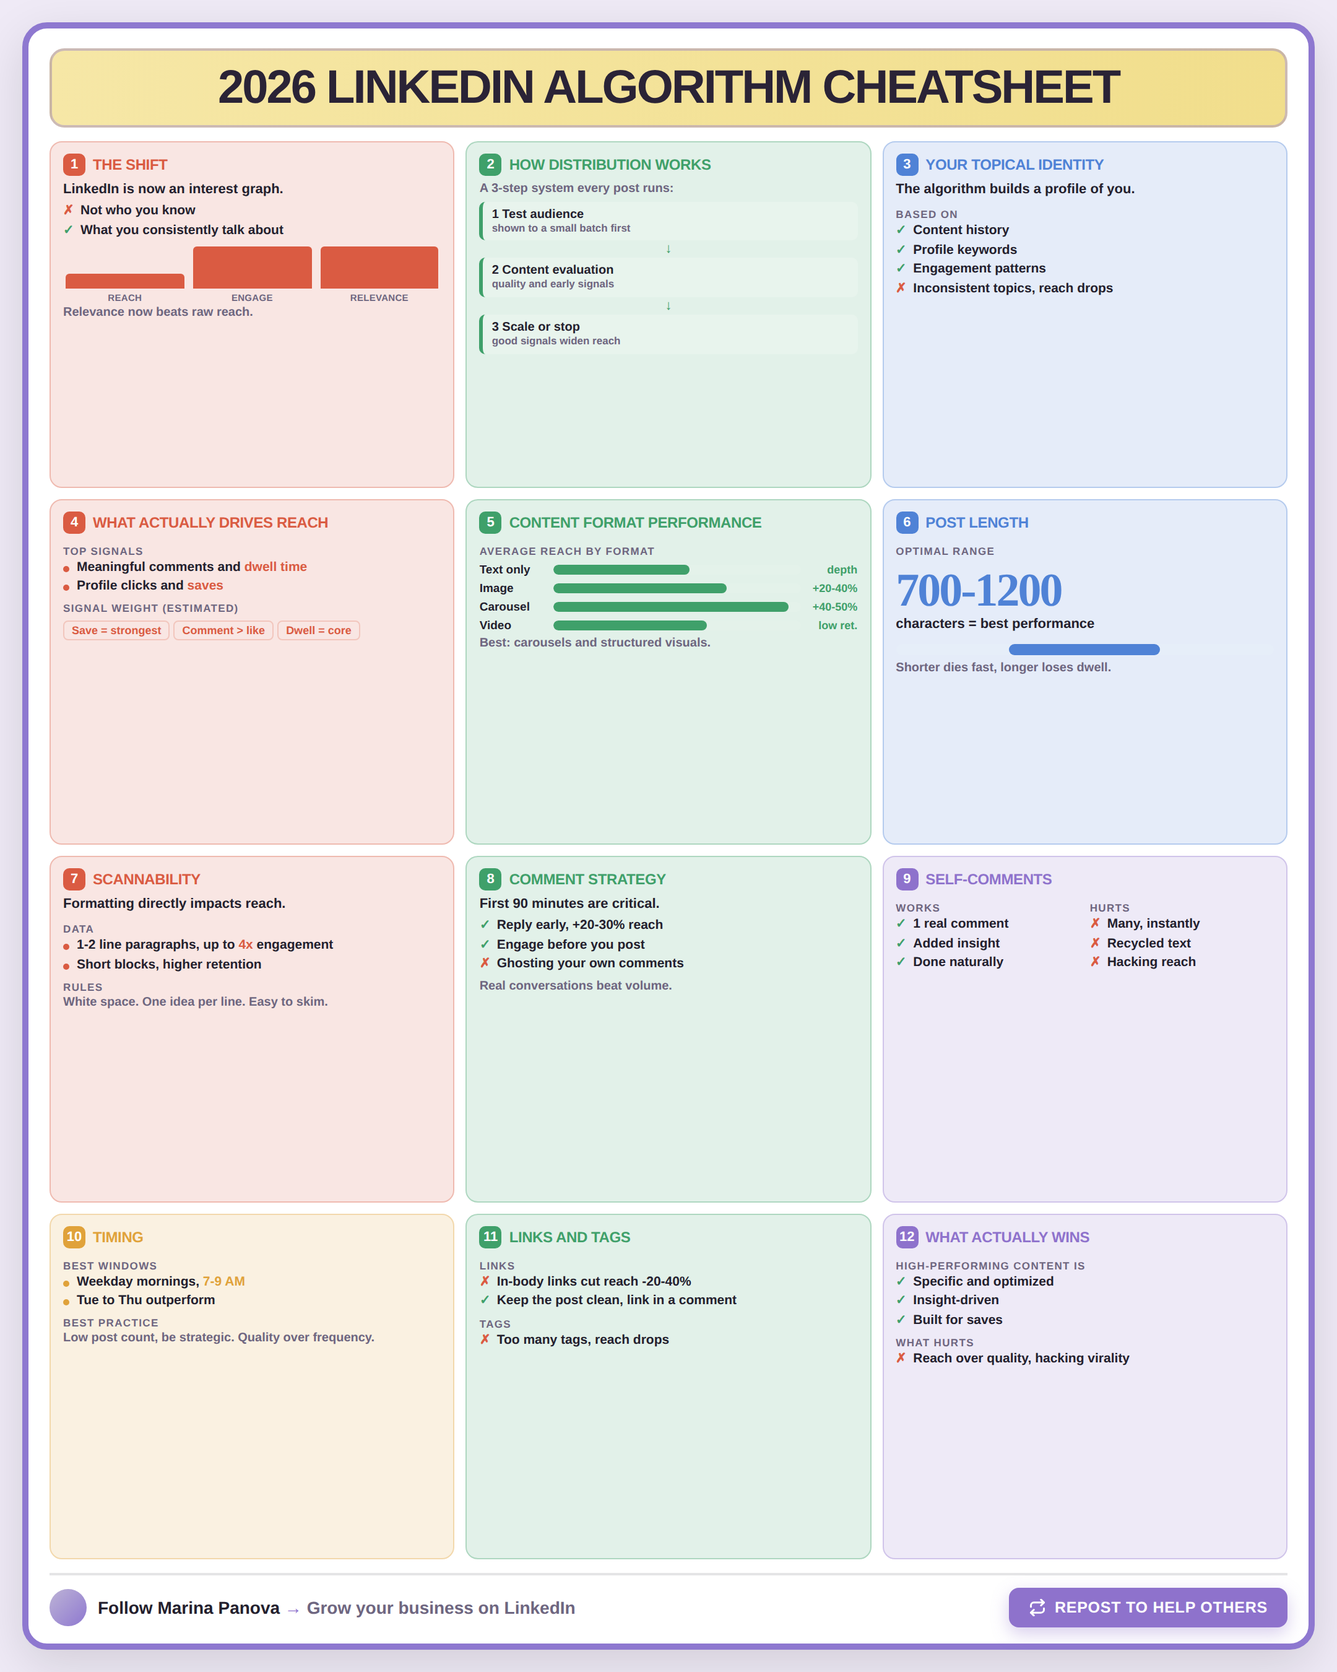
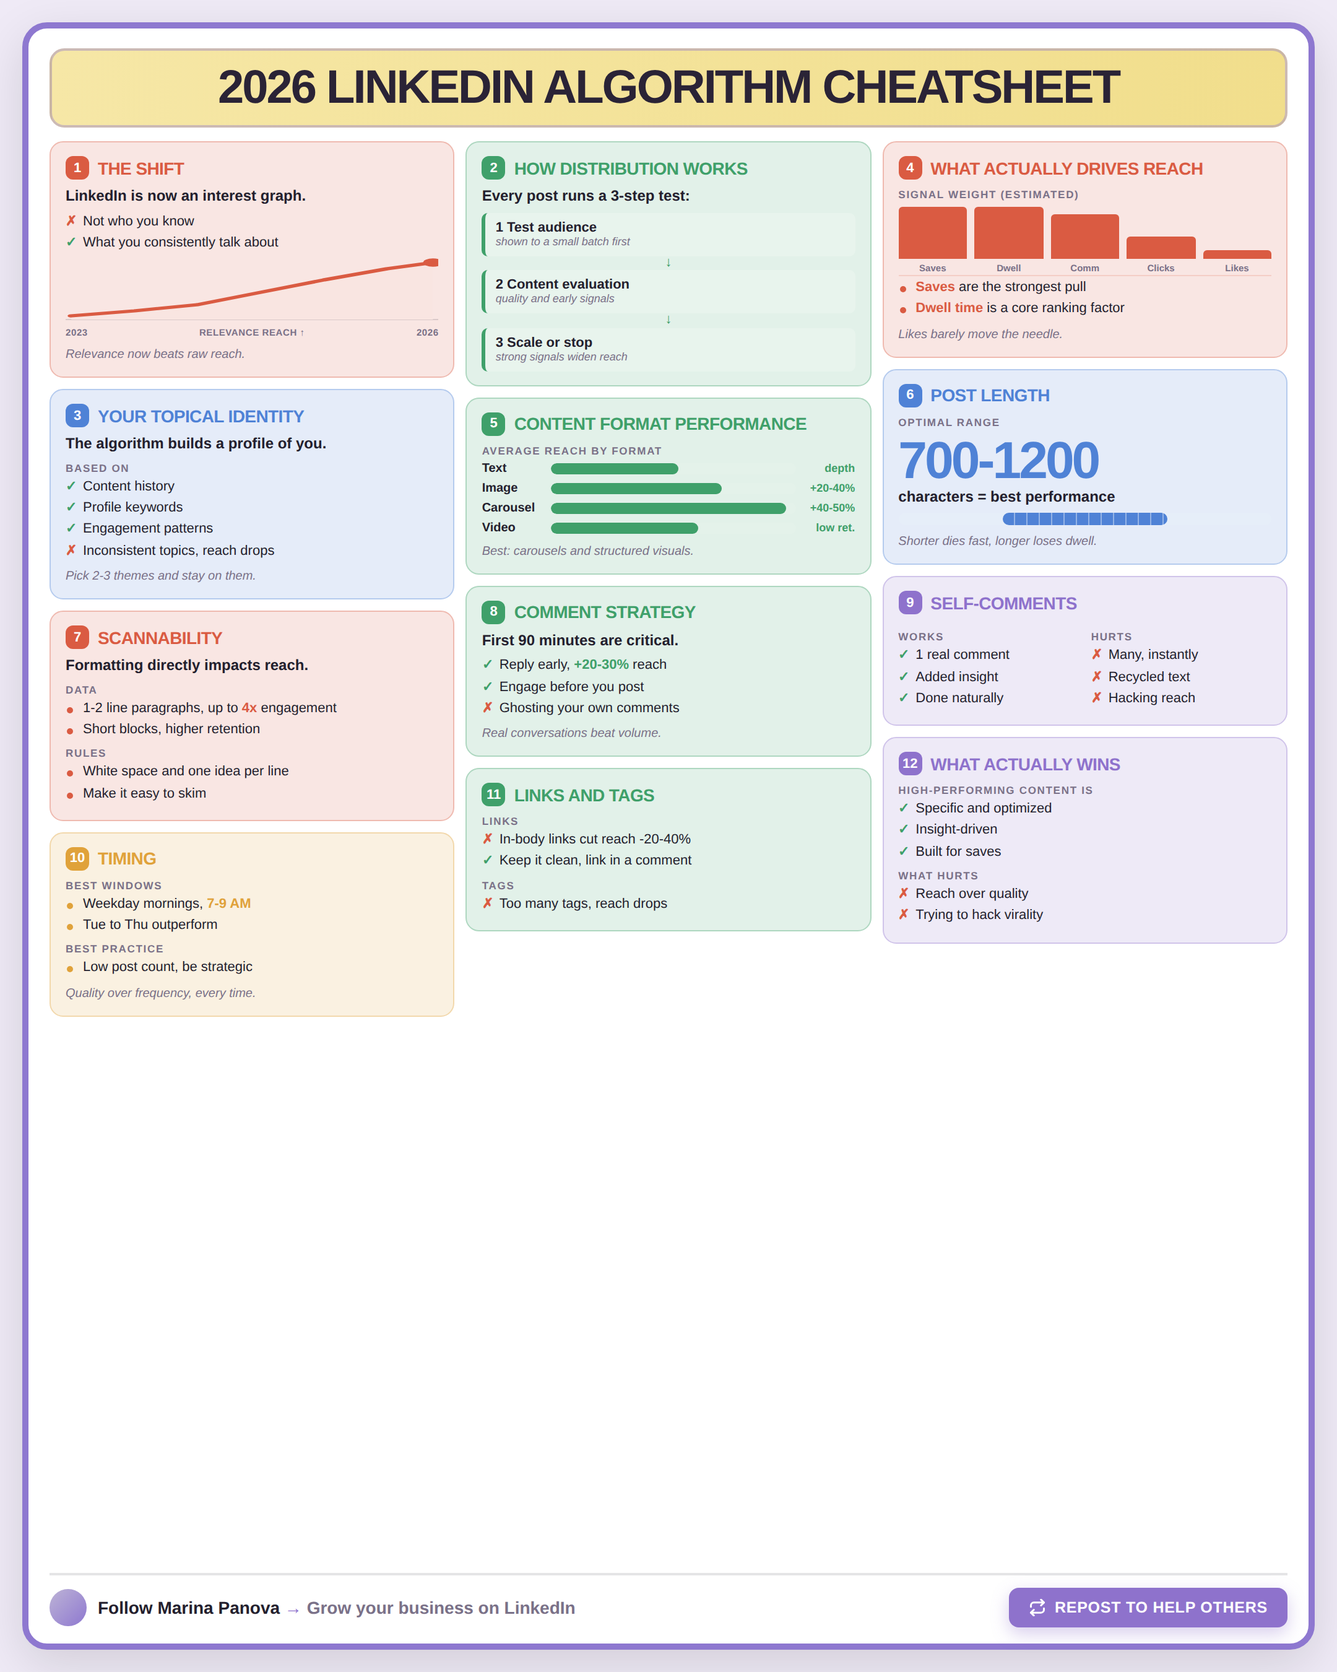
Reproduction: masonry columns + real SVG charts (growth curve, bar charts) + typographic hierarchy

diff --git a/content/ref-2026-linkedin-algorithm-cheatsheet.html b/content/ref-2026-linkedin-algorithm-cheatsheet.html
@@ -3,7 +3,7 @@
 <title>2026 LinkedIn Algorithm Cheatsheet</title>
 <link href="https://fonts.googleapis.com/css2?family=Poppins:wght@400;500;600;700;800;900&display=swap" rel="stylesheet">
 <style>
-:root{--bg:#EFEAF6;--ink:#241F2E;--ink2:#6E6680;
+:root{--bg:#EFEAF6;--ink:#241F2E;--ink2:#7A7188;
  --red:#DA5B42;--grn:#3FA06A;--blu:#4F82D6;--pur:#8E72CC;--amb:#E0A23A;--frame:#8E78D0;}
 *{box-sizing:border-box;margin:0;padding:0;}
 body{background:#c9c2d6;display:flex;justify-content:center;padding:24px 0;font-family:'Poppins',sans-serif;}
@@ -11,47 +11,63 @@ body{background:#c9c2d6;display:flex;justify-content:center;padding:24px 0;font-
 .canvas{width:1080px;height:1350px;background:var(--bg);padding:18px;position:relative;overflow:hidden;color:var(--ink);}
 .frame{height:100%;border:5px solid var(--frame);border-radius:20px;background:#fff;padding:16px 17px 13px;display:flex;flex-direction:column;box-shadow:0 12px 40px rgba(0,0,0,.12);}
 .hbar{flex-shrink:0;display:flex;align-items:center;justify-content:center;background:linear-gradient(90deg,#F6E7A6,#F1DE8C);border:2px solid rgba(142,120,204,.4);border-radius:12px;padding:11px;margin-bottom:11px;}
-.htitle{font-weight:900;font-size:38px;letter-spacing:-1.5px;line-height:1;color:#2A2336;text-align:center;}
-.grid{flex:1;display:grid;grid-template-columns:1fr 1fr 1fr;grid-auto-rows:1fr;gap:9px;min-height:0;}
-.sec{background:color-mix(in srgb,var(--c) 15%,#fff);border:1.5px solid color-mix(in srgb,var(--c) 42%,#fff);border-radius:10px;padding:9px 10px;display:flex;flex-direction:column;overflow:hidden;}
-.sh{display:flex;align-items:center;gap:6px;margin-bottom:5px;}
-.sn{width:18px;height:18px;border-radius:5px;background:var(--c);color:#fff;font-weight:900;font-size:11px;display:flex;align-items:center;justify-content:center;flex-shrink:0;}
-.st{font-weight:800;font-size:12px;letter-spacing:-.2px;color:var(--c);line-height:1;text-transform:uppercase;}
-.sub{font-size:11px;font-weight:700;color:var(--ink);line-height:1.2;margin-bottom:4px;}
-.m{color:var(--ink2);font-weight:600;font-size:10px;line-height:1.25;}
-.yes,.no{font-size:10.5px;font-weight:700;line-height:1.3;padding-left:14px;position:relative;margin-bottom:2px;}
-.yes::before{content:'\2713';position:absolute;left:0;color:var(--grn);font-weight:900;}
-.no::before{content:'\2717';position:absolute;left:0;color:var(--red);font-weight:900;}
-.li{font-size:10.5px;font-weight:700;line-height:1.28;padding-left:11px;position:relative;margin-bottom:2px;}
-.li::before{content:'';position:absolute;left:0;top:5px;width:5px;height:5px;border-radius:50%;background:var(--c);}
-.li b{color:var(--c);}
-.lab{font-family:'Poppins',sans-serif;font-size:8.5px;font-weight:700;letter-spacing:.08em;text-transform:uppercase;color:var(--ink2);margin:4px 0 2px;}
-.chips{display:flex;flex-wrap:wrap;gap:3px;margin-top:3px;}
-.chip{font-family:'Poppins',sans-serif;font-size:9px;font-weight:700;background:color-mix(in srgb,var(--c) 15%,#fff);color:var(--c);border:1px solid color-mix(in srgb,var(--c) 35%,#fff);padding:2px 6px;border-radius:4px;}
-.flow{display:flex;flex-direction:column;gap:4px;margin-top:3px;}
-.fstep{font-size:10px;font-weight:800;background:color-mix(in srgb,var(--c) 12%,#fff);border-left:3px solid var(--c);border-radius:5px;padding:5px 7px;line-height:1.1;}
-.fstep span{display:block;font-size:8.5px;font-weight:600;color:var(--ink2);margin-top:1px;}
-.farr{text-align:center;color:var(--c);font-weight:900;font-size:11px;line-height:.6;}
-.chart{display:flex;align-items:flex-end;gap:7px;height:46px;margin:4px 0 2px;padding:0 2px;}
-.bar{flex:1;display:flex;flex-direction:column;align-items:center;gap:3px;height:100%;justify-content:flex-end;}
-.bar i{width:100%;border-radius:3px 3px 0 0;background:var(--c);}
-.bar small{font-family:'Poppins',sans-serif;font-size:7.5px;font-weight:700;color:var(--ink2);letter-spacing:.02em;}
-.fmt{display:flex;flex-direction:column;gap:4px;margin-top:3px;}
-.frow{display:flex;align-items:center;gap:6px;font-size:9.5px;font-weight:700;}
-.frow .fn{width:54px;flex-shrink:0;color:var(--ink);}
-.frow .ft{flex:1;height:8px;background:color-mix(in srgb,var(--c) 14%,#fff);border-radius:4px;overflow:hidden;}
-.frow .ft i{display:block;height:100%;background:var(--c);border-radius:4px;}
-.frow .fv{width:40px;text-align:right;color:var(--c);font-weight:800;font-size:9px;}
-.big{font-family:'DM Sans';font-weight:900;font-size:38px;letter-spacing:-1.5px;color:var(--c);line-height:1;margin:6px 0 2px;}
-.rngbar{height:9px;border-radius:5px;background:color-mix(in srgb,var(--c) 14%,#fff);position:relative;margin-top:5px;}
-.rngbar i{position:absolute;left:30%;width:40%;height:100%;background:var(--c);border-radius:5px;}
-.two{display:grid;grid-template-columns:1fr 1fr;gap:2px 8px;}
+.htitle{font-weight:900;font-size:38px;letter-spacing:-1.5px;line-height:1;color:#2A2336;}
+
+/* MASONRY: cards size to content, balanced across 3 columns */
+.grid{flex:1;column-count:3;column-gap:9px;min-height:0;}
+.sec{break-inside:avoid;-webkit-column-break-inside:avoid;margin-bottom:9px;background:color-mix(in srgb,var(--c) 15%,#fff);border:1.5px solid color-mix(in srgb,var(--c) 42%,#fff);border-radius:11px;padding:11px 12px;overflow:hidden;}
+
+/* hierarchy: heavy title -> bold sub -> medium body -> light italic note */
+.sh{display:flex;align-items:center;gap:7px;margin-bottom:6px;}
+.sn{width:19px;height:19px;border-radius:6px;background:var(--c);color:#fff;font-weight:800;font-size:11px;display:flex;align-items:center;justify-content:center;flex-shrink:0;}
+.st{font-weight:800;font-size:14px;letter-spacing:-.3px;color:var(--c);line-height:1;text-transform:uppercase;}
+.sub{font-size:12px;font-weight:700;color:var(--ink);line-height:1.22;margin-bottom:6px;}
+.lab{font-size:8.5px;font-weight:800;letter-spacing:.1em;text-transform:uppercase;color:var(--ink2);margin:7px 0 3px;}
+.li,.yes,.no{font-size:11px;font-weight:500;line-height:1.3;padding-left:14px;position:relative;margin-bottom:3px;color:var(--ink);}
+.li::before{content:'';position:absolute;left:1px;top:6px;width:5px;height:5px;border-radius:50%;background:var(--c);}
+.li b{font-weight:700;color:var(--c);}
+.yes::before{content:'\2713';position:absolute;left:0;color:var(--grn);font-weight:800;}
+.no::before{content:'\2717';position:absolute;left:0;color:var(--red);font-weight:800;}
+.note{font-size:10px;font-weight:500;font-style:italic;color:var(--ink2);line-height:1.3;margin-top:7px;}
+.chips{display:flex;flex-wrap:wrap;gap:3px;margin-top:4px;}
+.chip{font-size:9.5px;font-weight:700;background:color-mix(in srgb,var(--c) 16%,#fff);color:var(--c);border:1px solid color-mix(in srgb,var(--c) 36%,#fff);padding:2px 7px;border-radius:5px;}
+
+/* growth curve (SVG) */
+.curve{width:100%;height:54px;display:block;margin:5px 0 2px;}
+.cxlab{display:flex;justify-content:space-between;font-size:7.5px;font-weight:700;color:var(--ink2);letter-spacing:.04em;text-transform:uppercase;}
+
+/* bar chart */
+.barc{display:flex;align-items:flex-end;gap:6px;height:56px;margin:5px 0 2px;border-bottom:1.5px solid color-mix(in srgb,var(--c) 30%,#fff);padding-bottom:1px;}
+.bc{flex:1;display:flex;flex-direction:column;align-items:center;justify-content:flex-end;height:100%;gap:3px;}
+.bc i{width:100%;border-radius:3px 3px 0 0;background:var(--c);}
+.bc small{font-size:7.5px;font-weight:700;color:var(--ink2);}
+
+/* horizontal format bars */
+.fmt{display:flex;flex-direction:column;gap:5px;margin-top:4px;}
+.frow{display:flex;align-items:center;gap:6px;font-size:10px;font-weight:600;}
+.frow .fn{width:50px;flex-shrink:0;color:var(--ink);}
+.frow .ft{flex:1;height:9px;background:color-mix(in srgb,var(--c) 14%,#fff);border-radius:5px;overflow:hidden;}
+.frow .ft i{display:block;height:100%;background:var(--c);border-radius:5px;}
+.frow .fv{width:42px;text-align:right;color:var(--c);font-weight:800;font-size:9px;}
+
+/* step flow */
+.flow{display:flex;flex-direction:column;gap:3px;margin-top:4px;}
+.fstep{font-size:11px;font-weight:700;background:color-mix(in srgb,var(--c) 12%,#fff);border-left:3px solid var(--c);border-radius:5px;padding:6px 8px;line-height:1.1;}
+.fstep span{display:block;font-size:9px;font-weight:500;font-style:italic;color:var(--ink2);margin-top:1px;}
+.farr{text-align:center;color:var(--c);font-weight:800;font-size:11px;line-height:.5;}
+
+/* big stat */
+.big{font-weight:900;font-size:42px;letter-spacing:-2px;color:var(--c);line-height:1;margin:5px 0 1px;}
+.rngbar{height:10px;border-radius:6px;background:color-mix(in srgb,var(--c) 14%,#fff);position:relative;margin-top:6px;}
+.rngbar i{position:absolute;left:28%;width:44%;height:100%;background:var(--c);border-radius:6px;}
+.rngbar i::after{content:'';position:absolute;inset:0;background:repeating-linear-gradient(90deg,transparent 0 9px,rgba(255,255,255,.4) 9px 10px);}
+.two{display:grid;grid-template-columns:1fr 1fr;gap:0 10px;}
 
 .ftr{flex-shrink:0;margin-top:11px;display:flex;align-items:center;justify-content:space-between;gap:14px;border-top:2px solid rgba(36,31,46,.12);padding-top:10px;}
 .fl{display:flex;align-items:center;gap:9px;}
 .av{width:30px;height:30px;border-radius:50%;background:linear-gradient(135deg,#bdb3d6,#8e78d0);}
 .ftx{font-size:14px;font-weight:800;color:var(--ink);}.ftx .ar{color:var(--pur);}.ftx span{color:var(--ink2);font-weight:600;}
-.repost{display:flex;align-items:center;gap:7px;background:var(--pur);color:#fff;font-weight:900;font-size:12.5px;letter-spacing:.03em;text-transform:uppercase;padding:9px 16px;border-radius:8px;box-shadow:0 5px 14px rgba(142,114,204,.35);}
+.repost{display:flex;align-items:center;gap:7px;background:var(--pur);color:#fff;font-weight:800;font-size:12.5px;letter-spacing:.03em;text-transform:uppercase;padding:9px 16px;border-radius:8px;box-shadow:0 5px 14px rgba(142,114,204,.35);}
 .repost svg{width:14px;height:14px;stroke:#fff;stroke-width:2.6;fill:none;stroke-linecap:round;stroke-linejoin:round;}
 </style></head>
 <body>
@@ -66,24 +82,14 @@ body{background:#c9c2d6;display:flex;justify-content:center;padding:24px 0;font-
       <div class="sub">LinkedIn is now an interest graph.</div>
       <div class="no">Not who you know</div>
       <div class="yes">What you consistently talk about</div>
-      <div class="chart">
-        <div class="bar"><i style="height:28%"></i><small>REACH</small></div>
-        <div class="bar"><i style="height:80%"></i><small>ENGAGE</small></div>
-        <div class="bar"><i style="height:96%"></i><small>RELEVANCE</small></div>
-      </div>
-      <div class="m">Relevance now beats raw reach.</div>
-    </div>
-
-    <div class="sec" style="--c:var(--grn)">
-      <div class="sh"><span class="sn">2</span><span class="st">How distribution works</span></div>
-      <div class="m">A 3-step system every post runs:</div>
-      <div class="flow">
-        <div class="fstep">1 Test audience<span>shown to a small batch first</span></div>
-        <div class="farr">&darr;</div>
-        <div class="fstep">2 Content evaluation<span>quality and early signals</span></div>
-        <div class="farr">&darr;</div>
-        <div class="fstep">3 Scale or stop<span>good signals widen reach</span></div>
-      </div>
+      <svg class="curve" viewBox="0 0 130 54" preserveAspectRatio="none">
+        <line x1="0" y1="50" x2="130" y2="50" stroke="rgba(36,31,46,.14)" stroke-width="1"/>
+        <polygon points="2,47 24,43 46,38 68,28 90,18 112,9 128,4 128,50 2,50" fill="color-mix(in srgb,var(--red) 16%,#fff)"/>
+        <polyline points="2,47 24,43 46,38 68,28 90,18 112,9 128,4" fill="none" stroke="var(--red)" stroke-width="2.6" stroke-linecap="round" stroke-linejoin="round"/>
+        <circle cx="128" cy="4" r="3.4" fill="var(--red)"/>
+      </svg>
+      <div class="cxlab"><span>2023</span><span>relevance reach &uarr;</span><span>2026</span></div>
+      <div class="note">Relevance now beats raw reach.</div>
     </div>
 
     <div class="sec" style="--c:var(--blu)">
@@ -94,36 +100,7 @@ body{background:#c9c2d6;display:flex;justify-content:center;padding:24px 0;font-
       <div class="yes">Profile keywords</div>
       <div class="yes">Engagement patterns</div>
       <div class="no">Inconsistent topics, reach drops</div>
-    </div>
-
-    <div class="sec" style="--c:var(--red)">
-      <div class="sh"><span class="sn">4</span><span class="st">What actually drives reach</span></div>
-      <div class="lab">Top signals</div>
-      <div class="li">Meaningful comments and <b>dwell time</b></div>
-      <div class="li">Profile clicks and <b>saves</b></div>
-      <div class="lab">Signal weight (estimated)</div>
-      <div class="chips"><span class="chip">Save = strongest</span><span class="chip">Comment &gt; like</span><span class="chip">Dwell = core</span></div>
-    </div>
-
-    <div class="sec" style="--c:var(--grn)">
-      <div class="sh"><span class="sn">5</span><span class="st">Content format performance</span></div>
-      <div class="lab">Average reach by format</div>
-      <div class="fmt">
-        <div class="frow"><span class="fn">Text only</span><span class="ft"><i style="width:55%"></i></span><span class="fv">depth</span></div>
-        <div class="frow"><span class="fn">Image</span><span class="ft"><i style="width:70%"></i></span><span class="fv">+20-40%</span></div>
-        <div class="frow"><span class="fn">Carousel</span><span class="ft"><i style="width:95%"></i></span><span class="fv">+40-50%</span></div>
-        <div class="frow"><span class="fn">Video</span><span class="ft"><i style="width:62%"></i></span><span class="fv">low ret.</span></div>
-      </div>
-      <div class="m" style="margin-top:3px">Best: carousels and structured visuals.</div>
-    </div>
-
-    <div class="sec" style="--c:var(--blu)">
-      <div class="sh"><span class="sn">6</span><span class="st">Post length</span></div>
-      <div class="lab">Optimal range</div>
-      <div class="big">700-1200</div>
-      <div class="sub">characters = best performance</div>
-      <div class="rngbar"><i></i></div>
-      <div class="m" style="margin-top:5px">Shorter dies fast, longer loses dwell.</div>
+      <div class="note">Pick 2-3 themes and stay on them.</div>
     </div>
 
     <div class="sec" style="--c:var(--red)">
@@ -133,16 +110,84 @@ body{background:#c9c2d6;display:flex;justify-content:center;padding:24px 0;font-
       <div class="li">1-2 line paragraphs, up to <b>4x</b> engagement</div>
       <div class="li">Short blocks, higher retention</div>
       <div class="lab">Rules</div>
-      <div class="m">White space. One idea per line. Easy to skim.</div>
+      <div class="li">White space and one idea per line</div>
+      <div class="li">Make it easy to skim</div>
+    </div>
+
+    <div class="sec" style="--c:var(--amb)">
+      <div class="sh"><span class="sn">10</span><span class="st">Timing</span></div>
+      <div class="lab">Best windows</div>
+      <div class="li">Weekday mornings, <b>7-9 AM</b></div>
+      <div class="li">Tue to Thu outperform</div>
+      <div class="lab">Best practice</div>
+      <div class="li">Low post count, be strategic</div>
+      <div class="note">Quality over frequency, every time.</div>
+    </div>
+
+    <div class="sec" style="--c:var(--grn)">
+      <div class="sh"><span class="sn">2</span><span class="st">How distribution works</span></div>
+      <div class="sub">Every post runs a 3-step test:</div>
+      <div class="flow">
+        <div class="fstep">1 Test audience<span>shown to a small batch first</span></div>
+        <div class="farr">&darr;</div>
+        <div class="fstep">2 Content evaluation<span>quality and early signals</span></div>
+        <div class="farr">&darr;</div>
+        <div class="fstep">3 Scale or stop<span>strong signals widen reach</span></div>
+      </div>
+    </div>
+
+    <div class="sec" style="--c:var(--grn)">
+      <div class="sh"><span class="sn">5</span><span class="st">Content format performance</span></div>
+      <div class="lab">Average reach by format</div>
+      <div class="fmt">
+        <div class="frow"><span class="fn">Text</span><span class="ft"><i style="width:52%"></i></span><span class="fv">depth</span></div>
+        <div class="frow"><span class="fn">Image</span><span class="ft"><i style="width:70%"></i></span><span class="fv">+20-40%</span></div>
+        <div class="frow"><span class="fn">Carousel</span><span class="ft"><i style="width:96%"></i></span><span class="fv">+40-50%</span></div>
+        <div class="frow"><span class="fn">Video</span><span class="ft"><i style="width:60%"></i></span><span class="fv">low ret.</span></div>
+      </div>
+      <div class="note">Best: carousels and structured visuals.</div>
     </div>
 
     <div class="sec" style="--c:var(--grn)">
       <div class="sh"><span class="sn">8</span><span class="st">Comment strategy</span></div>
       <div class="sub">First 90 minutes are critical.</div>
-      <div class="yes">Reply early, +20-30% reach</div>
+      <div class="yes">Reply early, <b style="color:var(--grn)">+20-30%</b> reach</div>
       <div class="yes">Engage before you post</div>
       <div class="no">Ghosting your own comments</div>
-      <div class="m" style="margin-top:3px">Real conversations beat volume.</div>
+      <div class="note">Real conversations beat volume.</div>
+    </div>
+
+    <div class="sec" style="--c:var(--grn)">
+      <div class="sh"><span class="sn">11</span><span class="st">Links and tags</span></div>
+      <div class="lab">Links</div>
+      <div class="no">In-body links cut reach -20-40%</div>
+      <div class="yes">Keep it clean, link in a comment</div>
+      <div class="lab">Tags</div>
+      <div class="no">Too many tags, reach drops</div>
+    </div>
+
+    <div class="sec" style="--c:var(--red)">
+      <div class="sh"><span class="sn">4</span><span class="st">What actually drives reach</span></div>
+      <div class="lab">Signal weight (estimated)</div>
+      <div class="barc">
+        <div class="bc"><i style="height:96%"></i><small>Saves</small></div>
+        <div class="bc"><i style="height:84%"></i><small>Dwell</small></div>
+        <div class="bc"><i style="height:66%"></i><small>Comm</small></div>
+        <div class="bc"><i style="height:34%"></i><small>Clicks</small></div>
+        <div class="bc"><i style="height:13%"></i><small>Likes</small></div>
+      </div>
+      <div class="li"><b>Saves</b> are the strongest pull</div>
+      <div class="li"><b>Dwell time</b> is a core ranking factor</div>
+      <div class="note">Likes barely move the needle.</div>
+    </div>
+
+    <div class="sec" style="--c:var(--blu)">
+      <div class="sh"><span class="sn">6</span><span class="st">Post length</span></div>
+      <div class="lab">Optimal range</div>
+      <div class="big">700-1200</div>
+      <div class="sub">characters = best performance</div>
+      <div class="rngbar"><i></i></div>
+      <div class="note">Shorter dies fast, longer loses dwell.</div>
     </div>
 
     <div class="sec" style="--c:var(--pur)">
@@ -163,24 +208,6 @@ body{background:#c9c2d6;display:flex;justify-content:center;padding:24px 0;font-
       </div>
     </div>
 
-    <div class="sec" style="--c:var(--amb)">
-      <div class="sh"><span class="sn">10</span><span class="st">Timing</span></div>
-      <div class="lab">Best windows</div>
-      <div class="li">Weekday mornings, <b>7-9 AM</b></div>
-      <div class="li">Tue to Thu outperform</div>
-      <div class="lab">Best practice</div>
-      <div class="m">Low post count, be strategic. Quality over frequency.</div>
-    </div>
-
-    <div class="sec" style="--c:var(--grn)">
-      <div class="sh"><span class="sn">11</span><span class="st">Links and tags</span></div>
-      <div class="lab">Links</div>
-      <div class="no">In-body links cut reach -20-40%</div>
-      <div class="yes">Keep the post clean, link in a comment</div>
-      <div class="lab">Tags</div>
-      <div class="no">Too many tags, reach drops</div>
-    </div>
-
     <div class="sec" style="--c:var(--pur)">
       <div class="sh"><span class="sn">12</span><span class="st">What actually wins</span></div>
       <div class="lab">High-performing content is</div>
@@ -188,7 +215,8 @@ body{background:#c9c2d6;display:flex;justify-content:center;padding:24px 0;font-
       <div class="yes">Insight-driven</div>
       <div class="yes">Built for saves</div>
       <div class="lab">What hurts</div>
-      <div class="no">Reach over quality, hacking virality</div>
+      <div class="no">Reach over quality</div>
+      <div class="no">Trying to hack virality</div>
     </div>
 
   </div>
